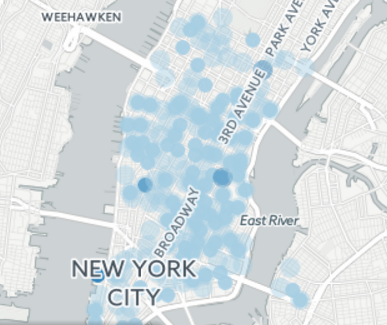
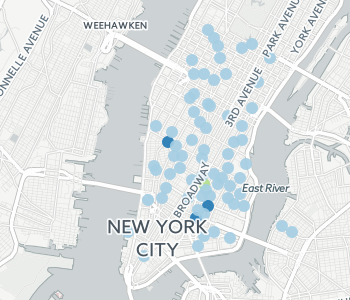
update carto graphs

diff --git a/README.md b/README.md
@@ -16,7 +16,14 @@ In an on-demand marketplace such as AWS, Uber, GrubHub, etc., there are typicall
 
 Visualize Station Visits with CartoDB
 ---------------------------------
+Visits~Date/time in Feb. 2015
 [![img](graphs/cartoFeb.png)](https://violinbeats.cartodb.com/viz/d387b8fe-eead-11e5-a8f9-0e5db1731f59/public_map)
+Visits for each station in 2015
+[![img](graphs/yearly.png)](https://violinbeats.cartodb.com/viz/5acb6566-fc39-11e5-a82a-0e3a376473ab/public_map)
+Number of checkouts for each station in 2015
+[![img](graphs/yearly-checkout.png)](https://violinbeats.cartodb.com/viz/26018868-fc3b-11e5-a090-0e98b61680bf/public_map)
+Number of returns for each station in 2015
+[![img](graphs/yearly-return.png)](https://violinbeats.cartodb.com/viz/8e2f17c0-fc3b-11e5-802b-0ef7f98ade21/public_map)
 
 Graphs
 -------
